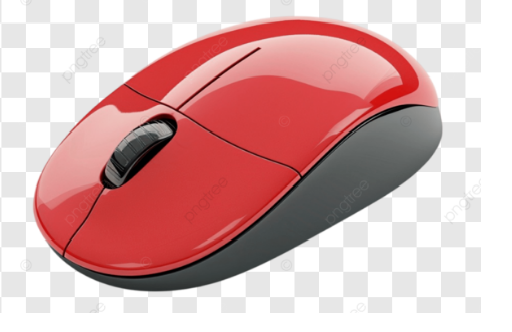
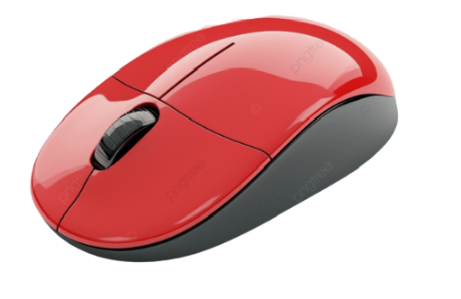
Add files via upload

diff --git a/Hardware/index.html b/Hardware/index.html
@@ -25,13 +25,13 @@
           <img src="imagens/gpu-encaixada.jpeg" alt="Placa Gráfica Encaixada" class="gpu-encaixada" id="gpu-encaixada">
         </div>
         <div class="slot keyboard-slot" id="keyboard-slot">
-          <img src="imagens/keyboard-encaixado.png" alt="Teclado Encaixado" class="keyboard-encaixada" id="keyboard-encaixada">
+          <img src="imagens/keyboard-encaixado (1).png" alt="Teclado Encaixado" class="keyboard-encaixada" id="keyboard-encaixada">
         </div>
         <div class="slot mouse-slot" id="mouse-slot">
-          <img src="imagens/mouse-encaixada.jpg" alt="Mouse Encaixado" class="mouse-encaixada" id="mouse-encaixada">
+          <img src="imagens/mouse-encaixada.png" alt="Mouse Encaixado" class="mouse-encaixada" id="mouse-encaixada">
         </div>
         <div class="slot display-slot" id="display-slot">
-          <img src="imagens/display-encaixada.jpg" alt="Display Encaixado" class="display-encaixada" id="display-encaixada">
+          <img src="imagens/display-encaixada.png" alt="Display Encaixado" class="display-encaixada" id="display-encaixada">
         </div>
         <div class="slot fonte-slot" id="fonte-slot">
           <img src="imagens/fonte-encaixada.jpeg" alt="Fonte Encaixada" class="fonte-encaixada" id="fonte-encaixada">

diff --git a/Hardware/estilos/footer.css b/Hardware/estilos/footer.css
@@ -1,9 +1,9 @@
 .rodapé{
     width: 100%;
     height: 60px;
-    background-color: rgb(14, 13, 13);
+    background-color: rgb(255, 255, 255);
     font-size: 25px;
-    color:white;
+    color:rgb(250, 250, 250);
     border-left: 30px;
     padding-left: 30px;
 }

diff --git a/Hardware/styles.css b/Hardware/styles.css
@@ -10,7 +10,7 @@ section {
   align-items: center;
   height: auto;
   margin: 10px;
-  background-color: #f0f0f0;
+  background-color: #90c4f1;
 }
 
 .container {
